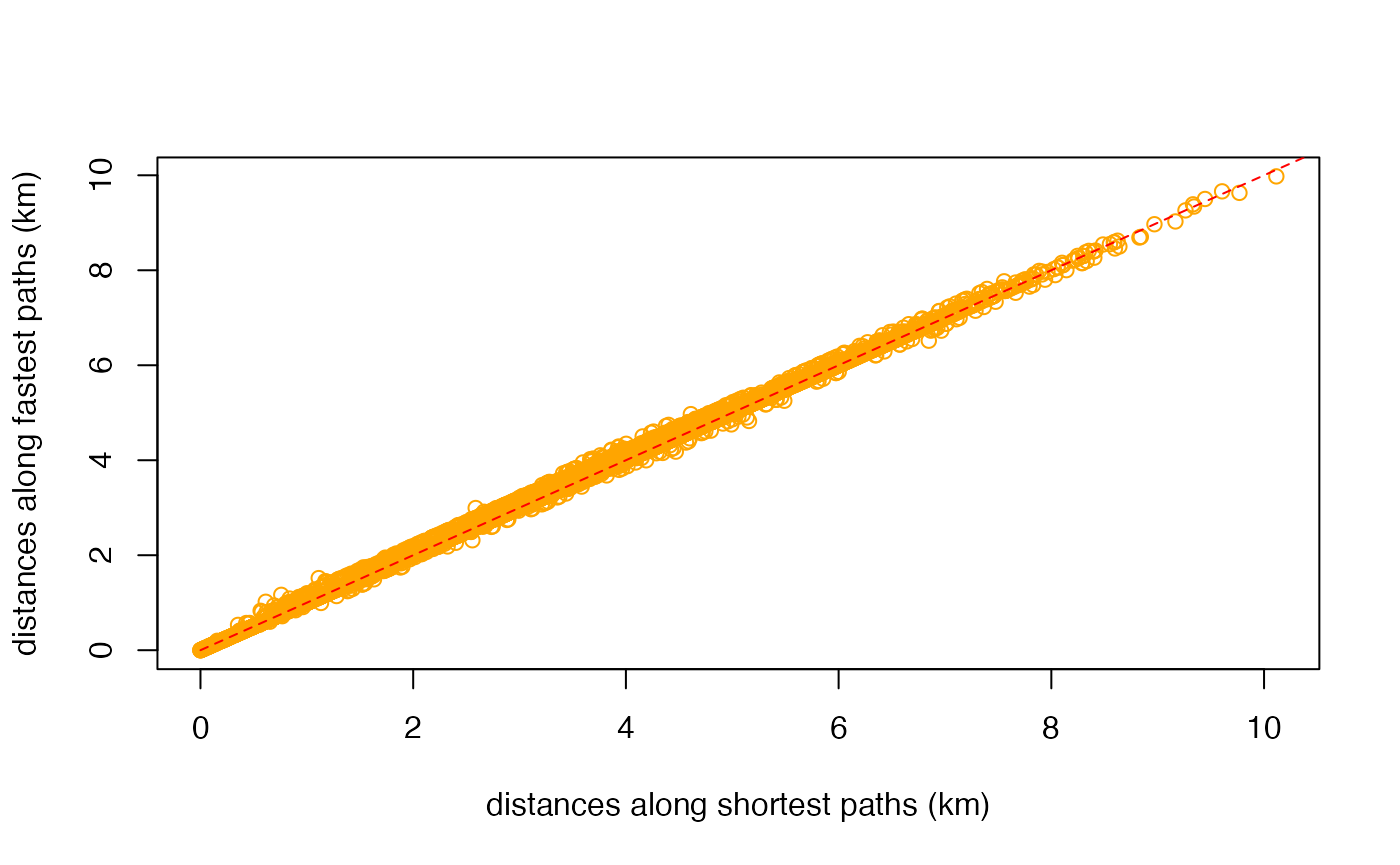
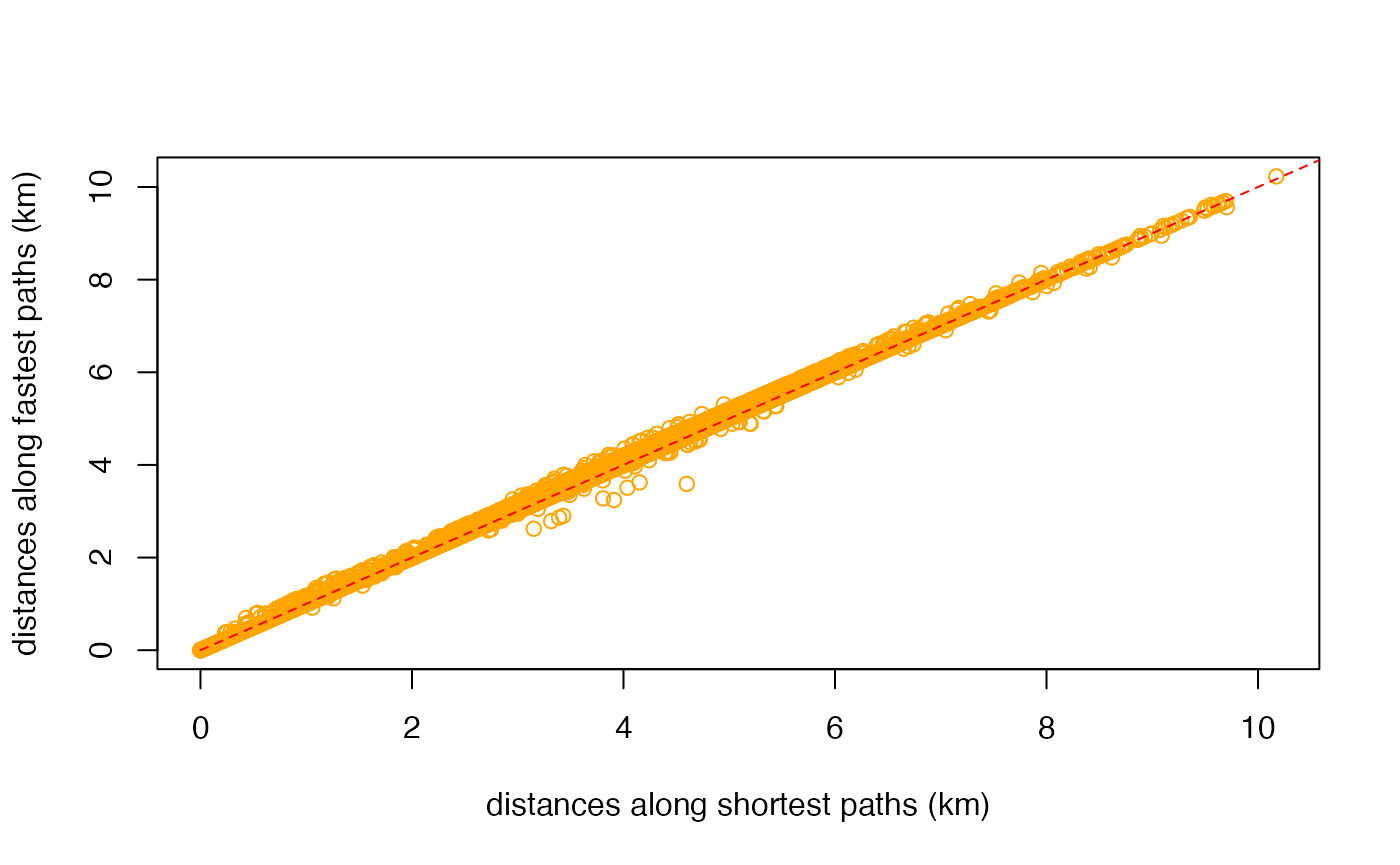
Built site for dodgr: 0.2.8.058@1b4ca18

diff --git a/articles/dodgr.html b/articles/dodgr.html
@@ -31,7 +31,7 @@
       </button>
       <span class="navbar-brand">
         <a class="navbar-link" href="../index.html">dodgr</a>
-        <span class="version label label-default" data-toggle="tooltip" data-placement="bottom" title="Released version">0.2.8.057</span>
+        <span class="version label label-default" data-toggle="tooltip" data-placement="bottom" title="Released version">0.2.8.058</span>
       </span>
     </div>
 
@@ -450,28 +450,28 @@
 ## 6       d &lt;- dodgr_dists(graph_contracted, from = from_id, to = to_id, heap = "BHeap")
 ## 7       d &lt;- dodgr_dists(graph_contracted, from = from_id, to = to_id, heap = "FHeap")
 ## 8     d &lt;- dodgr_dists(graph_contracted, from = from_id, to = to_id, heap = "TriHeap")
-## 11        d &lt;- dodgr_dists(graph_contracted, from = from_id, to = to_id, heap = "set")
 ## 10     d &lt;- dodgr_dists(graph_contracted, from = from_id, to = to_id, heap = "Heap23")
+## 11        d &lt;- dodgr_dists(graph_contracted, from = from_id, to = to_id, heap = "set")
 ## 9  d &lt;- dodgr_dists(graph_contracted, from = from_id, to = to_id, heap = "TriHeapExt")
 ## 1                  d &lt;- dodgr_dists(graph, from = from_id, to = to_id, heap = "BHeap")
-## 2                  d &lt;- dodgr_dists(graph, from = from_id, to = to_id, heap = "FHeap")
 ## 12                  d &lt;- igraph::distances(igr, v = from_id, to = to_id, mode = "out")
-## 3                d &lt;- dodgr_dists(graph, from = from_id, to = to_id, heap = "TriHeap")
 ## 5                 d &lt;- dodgr_dists(graph, from = from_id, to = to_id, heap = "Heap23")
+## 2                  d &lt;- dodgr_dists(graph, from = from_id, to = to_id, heap = "FHeap")
+## 3                d &lt;- dodgr_dists(graph, from = from_id, to = to_id, heap = "TriHeap")
 ## 4             d &lt;- dodgr_dists(graph, from = from_id, to = to_id, heap = "TriHeapExt")
 ##    replications elapsed relative user.self sys.self user.child sys.child
-## 6             1   0.003    1.000     0.003    0.000          0         0
+## 6             1   0.003    1.000     0.003    0.001          0         0
 ## 7             1   0.003    1.000     0.004    0.000          0         0
 ## 8             1   0.003    1.000     0.004    0.000          0         0
+## 10            1   0.003    1.000     0.004    0.000          0         0
 ## 11            1   0.003    1.000     0.003    0.000          0         0
-## 10            1   0.004    1.333     0.005    0.001          0         0
-## 9             1   0.005    1.667     0.005    0.000          0         0
+## 9             1   0.004    1.333     0.004    0.000          0         0
 ## 1             1   0.008    2.667     0.011    0.000          0         0
-## 2             1   0.011    3.667     0.022    0.000          0         0
-## 12            1   0.011    3.667     0.011    0.000          0         0
-## 3             1   0.013    4.333     0.023    0.001          0         0
-## 5             1   0.013    4.333     0.024    0.000          0         0
-## 4             1   0.022    7.333     0.022    0.001          0         0</code></pre>
+## 12            1   0.010    3.333     0.011    0.000          0         0
+## 5             1   0.011    3.667     0.022    0.000          0         0
+## 2             1   0.012    4.000     0.020    0.000          0         0
+## 3             1   0.012    4.000     0.023    0.000          0         0
+## 4             1   0.020    6.667     0.020    0.000          0         0</code></pre>
 <p>The key column of that <code>data.frame</code> is <code>relative</code>, which quantifies the relative performance of each test in relation to the best which is given a score of 1. <code>dodgr</code> using the default <code>heap = "BHeap"</code>, which is a binary heap priority queue, performs faster than <a href="https://igraph.org"><code>igraph</code></a> <span class="citation">(Csardi and Nepusz 2006)</span> for these graphs. Different kind of graphs will perform differently with different priority queue structures, and this function enables users to empirically discern the optimal heap for their kind of graph.</p>
 <p>Note, however, that this is not an entirely fair comparison, because <code>dodgr</code> calculates dual-weighted distances, whereas <a href="https://igraph.org"><code>igraph</code></a>—and indeed all other <strong>R</strong> packages—only directly calculate distances based on a single set of weights. Implementing dual-weighted routing in these cases requires explicitly re-tracing all paths and summing the second set of weights along each path. A time comparison in that case would be very strongly in favour of <code>dodgr</code>. Moreover, <code>dodgr</code> can convert graphs to contracted form through removing redundant vertices, as detailed in the following section. Doing so greatly improves performance with respect to <a href="https://igraph.org"><code>igraph</code></a>.</p>
 <p>For those wishing to do explicit comparisons themselves, the following code generates the <a href="https://igraph.org"><code>igraph</code></a> equivalent of <a href="https://atfutures.github.io/dodgr/reference/dodgr_distances.html"><code>dodgr_distances()</code></a>, although of course for single-weighted graphs only:</p>
@@ -509,8 +509,8 @@
 ## 2 d2 &lt;- dodgr_dists(graph, from = from, to = to)            2   0.039    5.571
 ## 1   d2 &lt;- dodgr_dists(grc, from = from, to = to)            2   0.007    1.000
 ##   user.self sys.self user.child sys.child
-## 2     0.052    0.001          0         0
-## 1     0.009    0.001          0         0</code></pre>
+## 2     0.051    0.001          0         0
+## 1     0.008    0.000          0         0</code></pre>
 <p>And contracting the graph has a similar effect of speeding up pairwise routing between these 100 points. All routing algorithms scale non-linearly with size, and relative improvements in efficiency will be even greater for larger graphs.</p>
 <div id="routing-on-contracted-graphs" class="section level2">
 <h2 class="hasAnchor">
@@ -524,12 +524,12 @@
 <div class="sourceCode" id="cb90"><pre class="downlit sourceCode r">
 <code class="sourceCode R"><span class="va">verts</span> <span class="op">&lt;-</span> <span class="fu"><a href="https://rdrr.io/r/base/sample.html">sample</a></span> <span class="op">(</span><span class="fu"><a href="../reference/dodgr_vertices.html">dodgr_vertices</a></span> <span class="op">(</span><span class="va">graph</span><span class="op">)</span><span class="op">$</span><span class="va">id</span>, size <span class="op">=</span> <span class="fl">100</span><span class="op">)</span>
 <span class="fu"><a href="https://rdrr.io/r/utils/head.html">head</a></span> <span class="op">(</span><span class="va">verts</span><span class="op">)</span> <span class="co"># a character vector</span></code></pre></div>
-<pre><code>## [1] "8618022298" "1376768553" "340148004"  "5351820876" "8634836958"
-## [6] "3158960627"</code></pre>
+<pre><code>## [1] "2195425001" "7799710915" "2398957829" "4035136527" "1143452489"
+## [6] "2398957576"</code></pre>
 <div class="sourceCode" id="cb92"><pre class="downlit sourceCode r">
 <code class="sourceCode R"><span class="va">grc</span> <span class="op">&lt;-</span> <span class="fu"><a href="../reference/dodgr_contract_graph.html">dodgr_contract_graph</a></span> <span class="op">(</span><span class="va">graph</span>, <span class="va">verts</span><span class="op">)</span>
 <span class="fu"><a href="https://rdrr.io/r/base/nrow.html">nrow</a></span> <span class="op">(</span><span class="va">grc</span><span class="op">)</span></code></pre></div>
-<pre><code>## [1] 938</code></pre>
+<pre><code>## [1] 953</code></pre>
 <p>Retaining the nominated vertices yields a graph with considerably more edges than the fully contracted graph excluding these vertices. The <a href="https://atfutures.github.io/dodgr/reference/dodgr_distances.html"><code>dodgr_distances()</code></a> function can be applied to the latter graph to obtain accurate distances precisely routed between these points, yet using the speed advantages of graph contraction.</p>
 </div>
 </div>
@@ -567,39 +567,42 @@
 <p>The result (<code>dp</code>) is a list of 10 items, each of which contains 5 vectors. An example is,</p>
 <div class="sourceCode" id="cb99"><pre class="downlit sourceCode r">
 <code class="sourceCode R"><span class="va">dp</span> <span class="op">[[</span><span class="fl">1</span><span class="op">]</span><span class="op">]</span> <span class="op">[[</span><span class="fl">1</span><span class="op">]</span><span class="op">]</span></code></pre></div>
-<pre><code>##   [1] "1398748028" "1398747923" "1398747951" "1398747980" "1398748002"
-##   [6] "1398748025" "1398747921" "1398747948" "1398747978" "1398748001"
-##  [11] "1388481878" "977490073"  "977490113"  "1388482095" "1388483621"
-##  [16] "977472677"  "977473047"  "6410121123" "2627480728" "4552228189"
-##  [21] "977472811"  "977472776"  "977473010"  "977472907"  "977473143" 
-##  [26] "1143452509" "5351394448" "1143452137" "1143452244" "5351394641"
-##  [31] "1143452423" "1143452067" "5351394642" "1143452181" "1143452303"
-##  [36] "1143452492" "1143452094" "5351394644" "5351394643" "1143452226"
-##  [41] "1143452348" "2718034071" "1143452546" "1143452128" "1143452281"
-##  [46] "1143452400" "1143452081" "1143452160" "7572183672" "5351394645"
-##  [51] "1143452459" "5351394646" "2627430641" "5351394647" "1143452205"
-##  [56] "5351394648" "1143452283" "1143452404" "2627428625" "1143452165"
-##  [61] "1143452327" "1143452463" "1143452113" "1143452207" "1143452383"
-##  [66] "1143452534" "1143452145" "2627440420" "2627440424" "1143452232"
-##  [71] "1143452410" "1143452262" "1143452379" "1143452183" "1143452174"
-##  [76] "1143452087" "1143452415" "1143452293" "1143452135" "1143452063"
-##  [81] "1143452360" "1143452234" "1143452099" "1143452506" "3697940688"
-##  [86] "3697940693" "571423793"  "2627444769" "571423788"  "571423786" 
-##  [91] "571423785"  "571423784"  "571423783"  "571423782"  "571423781" 
-##  [96] "571423780"  "2632626808" "5358983987" "5358983989" "2632626794"
-## [101] "571423776"</code></pre>
+<pre><code>##   [1] "2588155763" "7794251336" "7794251335" "2588155747" "2588155707"
+##   [6] "2588155729" "2588155746" "2588155713" "2588155719" "7794251333"
+##  [11] "7794251334" "2588155704" "2588155723" "2588155711" "2588155757"
+##  [16] "2588155716" "2588155777" "2588155750" "2588155754" "2588155755"
+##  [21] "2588155712" "2588155779" "2588155771" "2588155718" "2588155703"
+##  [26] "2588155714" "2588155776" "2588155740" "2588155778" "2588155726"
+##  [31] "2588155706" "2588155705" "2398957796" "2398957797" "2398957798"
+##  [36] "340148006"  "340148007"  "2398957809" "2398957814" "286632895" 
+##  [41] "1390214618" "2398957831" "2398957835" "286632896"  "2398957838"
+##  [46] "1604033309" "2398957841" "2398957842" "2398957844" "338512693" 
+##  [51] "2627477006" "4035136503" "4035136504" "4035136505" "4035136506"
+##  [56] "4035136507" "4035136508" "4035136509" "4035136510" "4035136511"
+##  [61] "4035136512" "4035136513" "4035136514" "4035136515" "4035136516"
+##  [66] "4035136517" "4035136527" "4035136526" "339577489"  "339577488" 
+##  [71] "339577487"  "339577486"  "8616917033" "8615501938" "2398957807"
+##  [76] "338904641"  "1148815069" "338904736"  "3338186190" "3338186191"
+##  [81] "2398957791" "338904757"  "1148814936" "2398957788" "2398957786"
+##  [86] "8615501939" "2398957784" "1148814651" "2398957781" "338904786" 
+##  [91] "1148815010" "5358983985" "3338186939" "338904808"  "3338186940"
+##  [96] "3338186941" "338904837"  "2398957773" "2398957769" "1148814881"
+## [101] "2398957767" "2398957766" "338904865"  "3338186942" "1148814720"
+## [106] "338904873"  "2398957771" "2398957770" "338904889"  "1148815220"
+## [111] "338904910"  "2398957759" "1148814697" "2398957752" "338904911" 
+## [116] "1148815173" "2398957745" "338904980"  "338904982"  "2398957732"</code></pre>
 <p>For spatial graphs, the coordinates of these paths can be obtained by extracting the vertices with <code><a href="../reference/dodgr_vertices.html">dodgr_vertices()</a></code> and matching the vertex IDs:</p>
 <div class="sourceCode" id="cb101"><pre class="downlit sourceCode r">
 <code class="sourceCode R"><span class="va">verts</span> <span class="op">&lt;-</span> <span class="fu"><a href="../reference/dodgr_vertices.html">dodgr_vertices</a></span> <span class="op">(</span><span class="va">graph</span><span class="op">)</span>
 <span class="va">path1</span> <span class="op">&lt;-</span> <span class="va">verts</span> <span class="op">[</span><span class="fu"><a href="https://rdrr.io/r/base/match.html">match</a></span> <span class="op">(</span><span class="va">dp</span> <span class="op">[[</span><span class="fl">1</span><span class="op">]</span><span class="op">]</span> <span class="op">[[</span><span class="fl">1</span><span class="op">]</span><span class="op">]</span>, <span class="va">verts</span><span class="op">$</span><span class="va">id</span><span class="op">)</span>, <span class="op">]</span>
 <span class="fu"><a href="https://rdrr.io/r/utils/head.html">head</a></span> <span class="op">(</span><span class="va">path1</span><span class="op">)</span></code></pre></div>
 <pre><code>##              id        x        y component    n
-## 5784 1398748028 76.45353 15.35031         2 2856
-## 5782 1398747923 76.45384 15.35032         2 2855
-## 5780 1398747951 76.45411 15.35019         2 2854
-## 5778 1398747980 76.45442 15.34982         2 2853
-## 5776 1398748002 76.45445 15.34968         2 2852
-## 5774 1398748025 76.45443 15.34953         2 2851</code></pre>
+## 3800 2588155763 76.44468 15.32531         1 1906
+## 3802 7794251336 76.44480 15.32545         1 1907
+## 3804 7794251335 76.44496 15.32567         1 1908
+## 3806 2588155747 76.44516 15.32587         1 1909
+## 3808 2588155707 76.44543 15.32608         1 1910
+## 3810 2588155729 76.44558 15.32621         1 1911</code></pre>
 <p>Paths calculated on contracted graphs will of course have fewer vertices than those calculated on full graphs.</p>
 </div>
 <div id="bibliography" class="section level1 unnumbered">

diff --git a/articles/times.html b/articles/times.html
@@ -31,7 +31,7 @@
       </button>
       <span class="navbar-brand">
         <a class="navbar-link" href="../index.html">dodgr</a>
-        <span class="version label label-default" data-toggle="tooltip" data-placement="bottom" title="Released version">0.2.8.057</span>
+        <span class="version label label-default" data-toggle="tooltip" data-placement="bottom" title="Released version">0.2.8.058</span>
       </span>
     </div>
 
@@ -232,12 +232,12 @@
 <p>The average distance between the two (in metres) is:</p>
 <div class="sourceCode" id="cb9"><pre class="downlit sourceCode r">
 <code class="sourceCode R"><span class="fu"><a href="https://rdrr.io/r/base/mean.html">mean</a></span> <span class="op">(</span><span class="fu"><a href="https://rdrr.io/r/base/MathFun.html">abs</a></span> <span class="op">(</span><span class="va">d_time</span> <span class="op">-</span> <span class="va">d_dist</span><span class="op">)</span>, na.rm <span class="op">=</span> <span class="cn">TRUE</span><span class="op">)</span></code></pre></div>
-<pre><code>## [1] 37.43357</code></pre>
+<pre><code>## [1] 35.07368</code></pre>
 <p>The plot reveals that shortest distances are indeed somewhat shorter than distances along fastest paths, but also that some fastest paths are actually shorter than shortest paths:</p>
 <div class="sourceCode" id="cb11"><pre class="downlit sourceCode r">
 <code class="sourceCode R"><span class="va">index</span> <span class="op">&lt;-</span> <span class="fu"><a href="https://rdrr.io/r/base/which.html">which</a></span> <span class="op">(</span><span class="op">!</span><span class="fu"><a href="https://rdrr.io/r/base/NA.html">is.na</a></span> <span class="op">(</span><span class="va">d_time</span><span class="op">)</span> <span class="op">&amp;</span> <span class="op">!</span><span class="fu"><a href="https://rdrr.io/r/base/NA.html">is.na</a></span> <span class="op">(</span><span class="va">d_dist</span><span class="op">)</span><span class="op">)</span>
 <span class="fu"><a href="https://rdrr.io/r/base/length.html">length</a></span> <span class="op">(</span><span class="fu"><a href="https://rdrr.io/r/base/which.html">which</a></span> <span class="op">(</span><span class="va">d_time</span> <span class="op">[</span><span class="va">index</span><span class="op">]</span> <span class="op">&lt;</span> <span class="va">d_dist</span> <span class="op">[</span><span class="va">index</span><span class="op">]</span><span class="op">)</span><span class="op">)</span> <span class="op">/</span> <span class="fu"><a href="https://rdrr.io/r/base/length.html">length</a></span> <span class="op">(</span><span class="va">index</span><span class="op">)</span></code></pre></div>
-<pre><code>## [1] 0.02849144</code></pre>
+<pre><code>## [1] 0.01518288</code></pre>
 <p>While <code>dodgr</code> and indeed all routing engines attempt to maximally reconcile differences between fastest and shortest routes, there nevertheless remain important discrepancies. Foremost among these, and the primary reason why some fastest routes may in fact be shorter than shortest routes, is that fastest routes allocate preferences for different kinds of way based both on the <code>value</code> column in the <code>weighting_profiles$weighting_profiles</code> table illustrated above, and on the actual maximum speed of a given edge, which itself may be a combination of maximum speeds as specified in OSM itself, maximum speeds from the <code>weighting_profiles$weighting_profiles</code> table, or values specific to a given surface. The result is that some unique combination of maximum speeds along a network may lead to <em>fastest</em> routes being preferentially directed along a path that is actually shorter than the direct shortest path which is calculated independent of maximum speed values.</p>
 <p>Such discrepancies are important in understanding differences in routes <em>times</em> calculated along shortest versus fastest paths. These times can be calculated (in seconds) with the <a href="https://atfutures.github.io/dodgr/reference/dodgr_times.html"><code>dodgr_times()</code></a> function:</p>
 <div class="sourceCode" id="cb13"><pre class="downlit sourceCode r">
@@ -250,12 +250,12 @@
 <p><img src="times_files/figure-html/shortest-vs-fastest-times-1.png" width="700"></p>
 <div class="sourceCode" id="cb14"><pre class="downlit sourceCode r">
 <code class="sourceCode R"><span class="fu"><a href="https://rdrr.io/r/base/mean.html">mean</a></span> <span class="op">(</span><span class="fu"><a href="https://rdrr.io/r/base/MathFun.html">abs</a></span> <span class="op">(</span><span class="va">t_time</span> <span class="op">-</span> <span class="va">t_dist</span><span class="op">)</span>, na.rm <span class="op">=</span> <span class="cn">TRUE</span><span class="op">)</span></code></pre></div>
-<pre><code>## [1] 83.30439</code></pre>
+<pre><code>## [1] 58.82722</code></pre>
 <p>As above, times along fastest paths are generally less than times along shortest paths, although there are again a few exceptions:</p>
 <div class="sourceCode" id="cb16"><pre class="downlit sourceCode r">
 <code class="sourceCode R"><span class="va">index</span> <span class="op">&lt;-</span> <span class="fu"><a href="https://rdrr.io/r/base/which.html">which</a></span> <span class="op">(</span><span class="op">!</span><span class="fu"><a href="https://rdrr.io/r/base/NA.html">is.na</a></span> <span class="op">(</span><span class="va">t_time</span><span class="op">)</span> <span class="op">&amp;</span> <span class="op">!</span><span class="fu"><a href="https://rdrr.io/r/base/NA.html">is.na</a></span> <span class="op">(</span><span class="va">t_dist</span><span class="op">)</span><span class="op">)</span>
 <span class="fu"><a href="https://rdrr.io/r/base/length.html">length</a></span> <span class="op">(</span><span class="fu"><a href="https://rdrr.io/r/base/which.html">which</a></span> <span class="op">(</span><span class="va">t_dist</span> <span class="op">[</span><span class="va">index</span><span class="op">]</span> <span class="op">&lt;</span> <span class="va">t_time</span> <span class="op">[</span><span class="va">index</span><span class="op">]</span><span class="op">)</span><span class="op">)</span> <span class="op">/</span> <span class="fu"><a href="https://rdrr.io/r/base/length.html">length</a></span> <span class="op">(</span><span class="va">index</span><span class="op">)</span></code></pre></div>
-<pre><code>## [1] 0.01613966</code></pre>
+<pre><code>## [1] 0.01173223</code></pre>
 <p>These results demonstrate how the combination of the <a href="https://atfutures.github.io/dodgr/reference/dodgr_distances.html"><code>dodgr_distances()</code></a> and <a href="https://atfutures.github.io/dodgr/reference/dodgr_times.html"><code>dodgr_times()</code></a> functions enable calculation of both distances and times along both shortest and fastest paths.</p>
 <div id="time-based-paths-and-flow-aggregation" class="section level2">
 <h2 class="hasAnchor">

diff --git a/reference/dodgr_centrality.html b/reference/dodgr_centrality.html
@@ -73,7 +73,7 @@ edge-based form." />
       </button>
       <span class="navbar-brand">
         <a class="navbar-link" href="../index.html">dodgr</a>
-        <span class="version label label-default" data-toggle="tooltip" data-placement="bottom" title="Released version">0.2.8.057</span>
+        <span class="version label label-default" data-toggle="tooltip" data-placement="bottom" title="Released version">0.2.8.058</span>
       </span>
     </div>
 
@@ -205,7 +205,7 @@ specifying a value via
     <pre class="examples"><div class='input'><span class='va'>graph_full</span> <span class='op'>&lt;-</span> <span class='fu'><a href='weight_streetnet.html'>weight_streetnet</a></span> <span class='op'>(</span><span class='va'>hampi</span><span class='op'>)</span>
 <span class='va'>graph</span> <span class='op'>&lt;-</span> <span class='fu'><a href='dodgr_contract_graph.html'>dodgr_contract_graph</a></span> <span class='op'>(</span><span class='va'>graph_full</span><span class='op'>)</span>
 <span class='va'>graph</span> <span class='op'>&lt;-</span> <span class='fu'>dodgr_centrality</span> <span class='op'>(</span><span class='va'>graph</span><span class='op'>)</span>
-</div><div class='output co'>#&gt; <span class='error'>Error in dodgr_centrality(graph): vert_wts must be a vector of same length as nrow (dodgr_vertices (graph))</span></div><div class='input'><span class='co'># 'graph' is then the contracted graph with an additional 'centrality' column</span>
+<span class='co'># 'graph' is then the contracted graph with an additional 'centrality' column</span>
 <span class='co'># Same calculation via 'igraph':</span>
 <span class='va'>igr</span> <span class='op'>&lt;-</span> <span class='fu'><a href='dodgr_to_igraph.html'>dodgr_to_igraph</a></span> <span class='op'>(</span><span class='va'>graph</span><span class='op'>)</span>
 </div><div class='output co'>#&gt; <span class='message'>Loading required namespace: igraph</span></div><div class='input'><span class='kw'><a href='https://rdrr.io/r/base/library.html'>library</a></span> <span class='op'>(</span><span class='va'><a href='https://igraph.org'>igraph</a></span><span class='op'>)</span>
@@ -224,7 +224,7 @@ specifying a value via
 <span class='co'># 'dodgr_to_sf()' is also useful for many visualisation routines.</span>
 <span class='va'>graph_sf</span> <span class='op'>&lt;-</span> <span class='fu'><a href='merge_directed_graph.html'>merge_directed_graph</a></span> <span class='op'>(</span><span class='va'>graph_full</span><span class='op'>)</span> <span class='op'>%&gt;%</span>
     <span class='fu'><a href='dodgr_to_sf.html'>dodgr_to_sf</a></span> <span class='op'>(</span><span class='op'>)</span>
-</div><div class='output co'>#&gt; <span class='error'>Error in merge_directed_graph(graph_full): col_names [flow] do not match columns in graph</span></div><div class='input'>
+</div><div class='output co'>#&gt; <span class='message'>Loading required namespace: sf</span></div><div class='output co'>#&gt; <span class='message'>old-style crs object detected; please recreate object with a recent sf::st_crs()</span></div><div class='input'>
 <span class='kw'>if</span> <span class='op'>(</span><span class='cn'>FALSE</span><span class='op'>)</span> <span class='op'>{</span>
 <span class='kw'><a href='https://rdrr.io/r/base/library.html'>library</a></span> <span class='op'>(</span><span class='va'>mapview</span><span class='op'>)</span>
 <span class='va'>centrality</span> <span class='op'>&lt;-</span> <span class='va'>graph_sf</span><span class='op'>$</span><span class='va'>centrality</span> <span class='op'>/</span> <span class='fu'><a href='https://rdrr.io/r/base/Extremes.html'>max</a></span> <span class='op'>(</span><span class='va'>graph_sf</span><span class='op'>$</span><span class='va'>centrality</span><span class='op'>)</span>

diff --git a/articles/flows.html b/articles/flows.html
@@ -31,7 +31,7 @@
       </button>
       <span class="navbar-brand">
         <a class="navbar-link" href="../index.html">dodgr</a>
-        <span class="version label label-default" data-toggle="tooltip" data-placement="bottom" title="Released version">0.2.8.057</span>
+        <span class="version label label-default" data-toggle="tooltip" data-placement="bottom" title="Released version">0.2.8.058</span>
       </span>
     </div>
 
@@ -113,7 +113,7 @@
 <div class="sourceCode" id="cb4"><pre class="downlit sourceCode r">
 <code class="sourceCode R"><span class="fu"><a href="https://rdrr.io/r/base/summary.html">summary</a></span> <span class="op">(</span><span class="va">graph_f</span><span class="op">$</span><span class="va">flow</span><span class="op">)</span></code></pre></div>
 <pre><code>##    Min. 1st Qu.  Median    Mean 3rd Qu.    Max. 
-## 0.00000 0.00000 0.00000 0.03472 0.00000 1.13643</code></pre>
+## 0.00000 0.00000 0.00000 0.03394 0.00000 1.21819</code></pre>
 </div>
 <div id="flow-dispersal" class="section level2">
 <h2 class="hasAnchor">
@@ -124,7 +124,7 @@
 <span class="va">graph_f</span> <span class="op">&lt;-</span> <span class="fu"><a href="../reference/dodgr_flows_disperse.html">dodgr_flows_disperse</a></span> <span class="op">(</span><span class="va">graph</span>, from <span class="op">=</span> <span class="va">from</span>, dens <span class="op">=</span> <span class="va">dens</span><span class="op">)</span>
 <span class="fu"><a href="https://rdrr.io/r/base/summary.html">summary</a></span> <span class="op">(</span><span class="va">graph_f</span><span class="op">$</span><span class="va">flow</span><span class="op">)</span></code></pre></div>
 <pre><code>##      Min.   1st Qu.    Median      Mean   3rd Qu.      Max. 
-## 0.000e+00 0.000e+00 8.714e-05 1.468e-03 1.245e-03 1.083e-01</code></pre>
+## 0.0000000 0.0000000 0.0002505 0.0014678 0.0017823 0.0393096</code></pre>
 </div>
 <div id="merging-directed-flows" class="section level2">
 <h2 class="hasAnchor">
@@ -136,7 +136,7 @@
 <div class="sourceCode" id="cb9"><pre class="downlit sourceCode r">
 <code class="sourceCode R"><span class="fu"><a href="https://rdrr.io/r/base/nrow.html">nrow</a></span> <span class="op">(</span><span class="va">graph_f</span><span class="op">)</span>; <span class="fu"><a href="https://rdrr.io/r/base/nrow.html">nrow</a></span> <span class="op">(</span><span class="va">graph_undir</span><span class="op">)</span> <span class="co"># the latter is much smaller</span></code></pre></div>
 <pre><code>## [1] 6813</code></pre>
-<pre><code>## [1] 3337</code></pre>
+<pre><code>## [1] 3332</code></pre>
 <p>The resultant graph can readily be merged with the original graph to regain the original data on vertex coordinates through</p>
 <div class="sourceCode" id="cb12"><pre class="downlit sourceCode r">
 <code class="sourceCode R"><span class="va">graph</span> <span class="op">&lt;-</span> <span class="va">graph</span> <span class="op">[</span><span class="va">graph_undir</span><span class="op">$</span><span class="va">edge_id</span>, <span class="op">]</span>

diff --git a/reference/dodgr_to_sf.html b/reference/dodgr_to_sf.html
@@ -76,7 +76,7 @@ will be bisected at every junction point." />
       </button>
       <span class="navbar-brand">
         <a class="navbar-link" href="../index.html">dodgr</a>
-        <span class="version label label-default" data-toggle="tooltip" data-placement="bottom" title="Released version">0.2.8.057</span>
+        <span class="version label label-default" data-toggle="tooltip" data-placement="bottom" title="Released version">0.2.8.058</span>
       </span>
     </div>
 
@@ -147,7 +147,7 @@ will be bisected at every junction point.</p>
     <pre class="examples"><div class='input'><span class='va'>hw</span> <span class='op'>&lt;-</span> <span class='fu'><a href='weight_streetnet.html'>weight_streetnet</a></span> <span class='op'>(</span><span class='va'>hampi</span><span class='op'>)</span>
 <span class='fu'><a href='https://rdrr.io/r/base/nrow.html'>nrow</a></span><span class='op'>(</span><span class='va'>hw</span><span class='op'>)</span> <span class='co'># 5,729 edges</span>
 </div><div class='output co'>#&gt; [1] 6813</div><div class='input'><span class='va'>xy</span> <span class='op'>&lt;-</span> <span class='fu'>dodgr_to_sf</span> <span class='op'>(</span><span class='va'>hw</span><span class='op'>)</span>
-</div><div class='output co'>#&gt; <span class='message'>Loading required namespace: sf</span></div><div class='output co'>#&gt; <span class='message'>old-style crs object detected; please recreate object with a recent sf::st_crs()</span></div><div class='input'><span class='fu'><a href='https://rdrr.io/r/base/dim.html'>dim</a></span> <span class='op'>(</span><span class='va'>xy</span><span class='op'>)</span> <span class='co'># 764 edges; 14 attributes</span>
+</div><div class='output co'>#&gt; <span class='message'>old-style crs object detected; please recreate object with a recent sf::st_crs()</span></div><div class='input'><span class='fu'><a href='https://rdrr.io/r/base/dim.html'>dim</a></span> <span class='op'>(</span><span class='va'>xy</span><span class='op'>)</span> <span class='co'># 764 edges; 14 attributes</span>
 </div><div class='output co'>#&gt; [1] 756  16</div></pre>
   </div>
   <div class="col-md-3 hidden-xs hidden-sm" id="pkgdown-sidebar">

diff --git a/reference/estimate_centrality_threshold.html b/reference/estimate_centrality_threshold.html
@@ -76,7 +76,7 @@ values of 'dist_threshold' corresponding to specific degrees of accuracy." />
       </button>
       <span class="navbar-brand">
         <a class="navbar-link" href="../index.html">dodgr</a>
-        <span class="version label label-default" data-toggle="tooltip" data-placement="bottom" title="Released version">0.2.8.057</span>
+        <span class="version label label-default" data-toggle="tooltip" data-placement="bottom" title="Released version">0.2.8.058</span>
       </span>
     </div>
 

diff --git a/reference/merge_directed_graph.html b/reference/merge_directed_graph.html
@@ -76,7 +76,7 @@ return columns of aggregated flows directed along each edge of a graph." />
       </button>
       <span class="navbar-brand">
         <a class="navbar-link" href="../index.html">dodgr</a>
-        <span class="version label label-default" data-toggle="tooltip" data-placement="bottom" title="Released version">0.2.8.057</span>
+        <span class="version label label-default" data-toggle="tooltip" data-placement="bottom" title="Released version">0.2.8.058</span>
       </span>
     </div>
 

diff --git a/reference/dodgr_uncontract_graph.html b/reference/dodgr_uncontract_graph.html
@@ -75,7 +75,7 @@ on to the original graph, as demonstrated in the example." />
       </button>
       <span class="navbar-brand">
         <a class="navbar-link" href="../index.html">dodgr</a>
-        <span class="version label label-default" data-toggle="tooltip" data-placement="bottom" title="Released version">0.2.8.057</span>
+        <span class="version label label-default" data-toggle="tooltip" data-placement="bottom" title="Released version">0.2.8.058</span>
       </span>
     </div>
 

diff --git a/reference/dodgr_isoverts.html b/reference/dodgr_isoverts.html
@@ -76,7 +76,7 @@ isodistances, or one or more tlim values for isochrones." />
       </button>
       <span class="navbar-brand">
         <a class="navbar-link" href="../index.html">dodgr</a>
-        <span class="version label label-default" data-toggle="tooltip" data-placement="bottom" title="Released version">0.2.8.057</span>
+        <span class="version label label-default" data-toggle="tooltip" data-placement="bottom" title="Released version">0.2.8.058</span>
       </span>
     </div>
 

diff --git a/reference/dodgr_cache_on.html b/reference/dodgr_cache_on.html
@@ -73,7 +73,7 @@ after caching has been turned off with dodgr_cache_off." />
       </button>
       <span class="navbar-brand">
         <a class="navbar-link" href="../index.html">dodgr</a>
-        <span class="version label label-default" data-toggle="tooltip" data-placement="bottom" title="Released version">0.2.8.057</span>
+        <span class="version label label-default" data-toggle="tooltip" data-placement="bottom" title="Released version">0.2.8.058</span>
       </span>
     </div>
 

diff --git a/reference/dodgr_sflines_to_poly.html b/reference/dodgr_sflines_to_poly.html
@@ -73,7 +73,7 @@ fundamental cycles within the LINESTRING objects." />
       </button>
       <span class="navbar-brand">
         <a class="navbar-link" href="../index.html">dodgr</a>
-        <span class="version label label-default" data-toggle="tooltip" data-placement="bottom" title="Released version">0.2.8.057</span>
+        <span class="version label label-default" data-toggle="tooltip" data-placement="bottom" title="Released version">0.2.8.058</span>
       </span>
     </div>
 

diff --git a/reference/dodgr_flows_si.html b/reference/dodgr_flows_si.html
@@ -74,7 +74,7 @@ points, and associated vectors of densities." />
       </button>
       <span class="navbar-brand">
         <a class="navbar-link" href="../index.html">dodgr</a>
-        <span class="version label label-default" data-toggle="tooltip" data-placement="bottom" title="Released version">0.2.8.057</span>
+        <span class="version label label-default" data-toggle="tooltip" data-placement="bottom" title="Released version">0.2.8.058</span>
       </span>
     </div>
 
